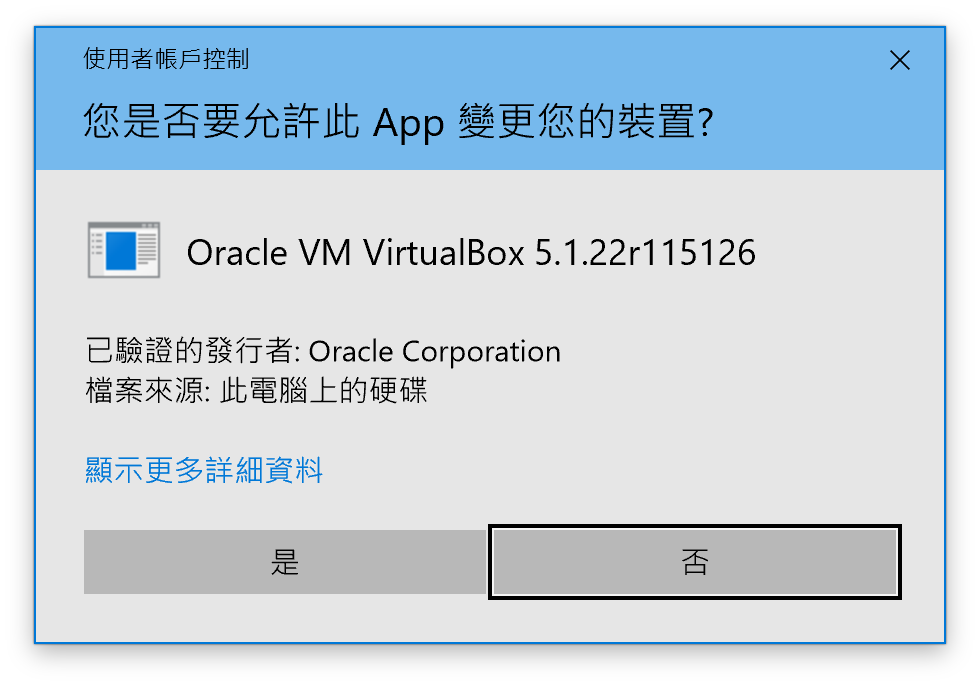
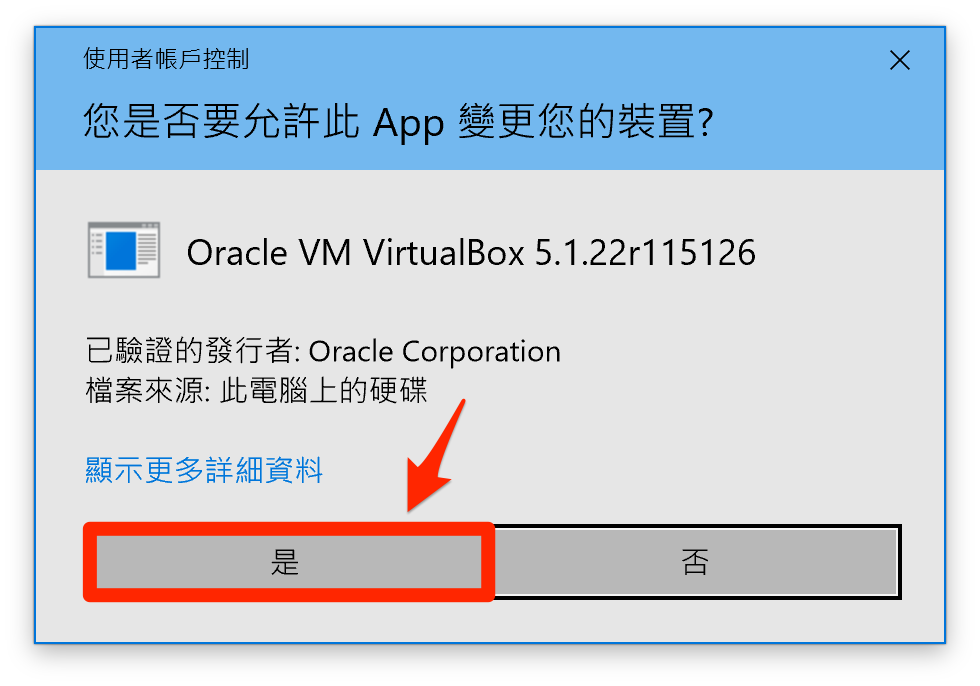
新增換行

Changed region(s): [[0.0612, 0.5816, 0.5204, 0.8878]]

diff --git a/install/index.md b/install/index.md
@@ -12,7 +12,7 @@
   - 載點2 [Google Drive](https://drive.google.com/file/d/0B-XkApzKpJ7QVlJCaXJmdGhiZEk/view?usp=sharing)
   - 載點3 [MEGA](https://mega.nz/#!c19wXIwJ!_20jF5ehdNUsRc-3yEnEBi9XVqCC9fD8T_R31Rb66t0)
   - 跟工作人員拿安裝隨身碟
-2.  雙擊 ova 並開啟檔案
+2.  雙擊 ova 並開啟檔案   
 ![](../img/step1.png)
 3. 開啟 VirtualBox 管理員，並點擊匯入
 ![](../img/step2.png)

diff --git a/virtualbox/index.md b/virtualbox/index.md
@@ -18,7 +18,7 @@
 ![](../img/vb4.png)
 6.
 ![](../img/vb5.png)
-7.
+7. 點選是
 ![](../img/vb6.png)
 8.
 ![](../img/vb7.png)
